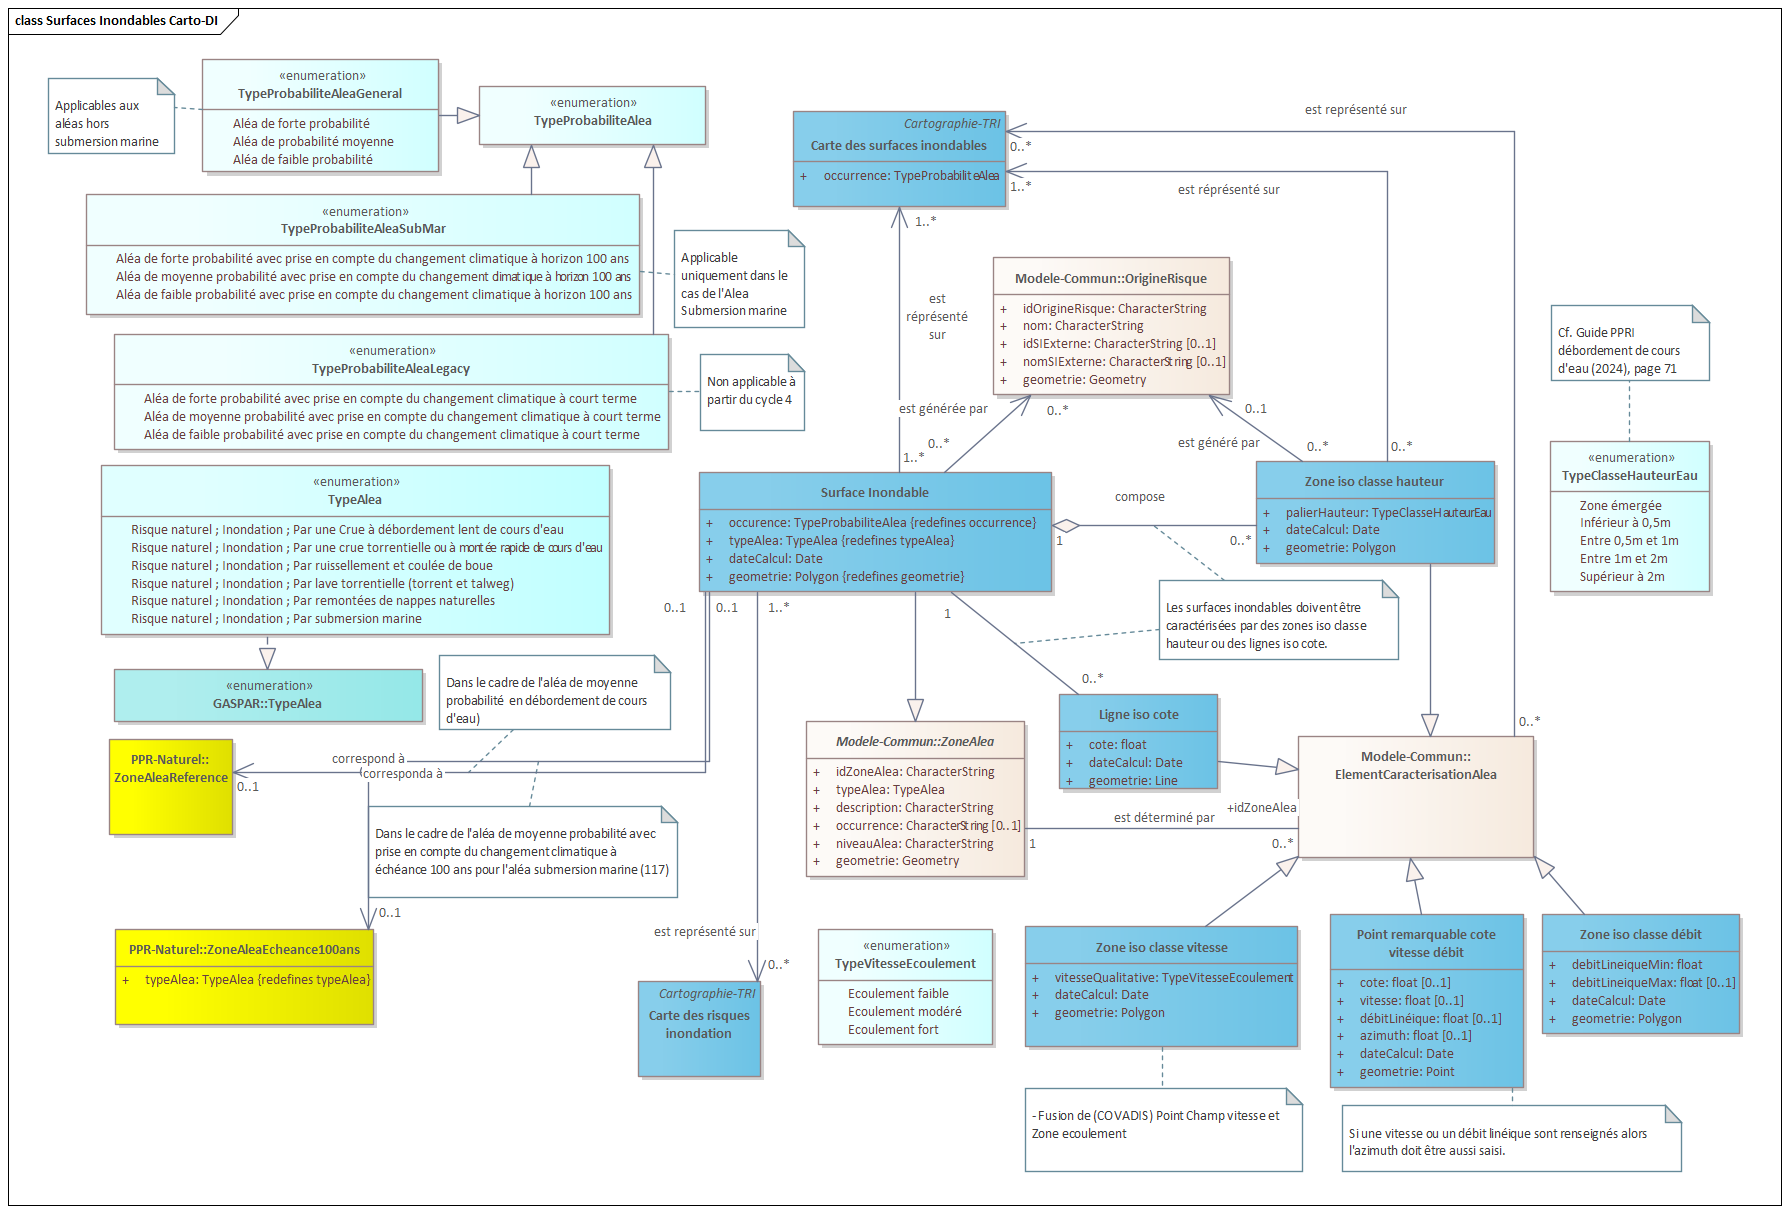
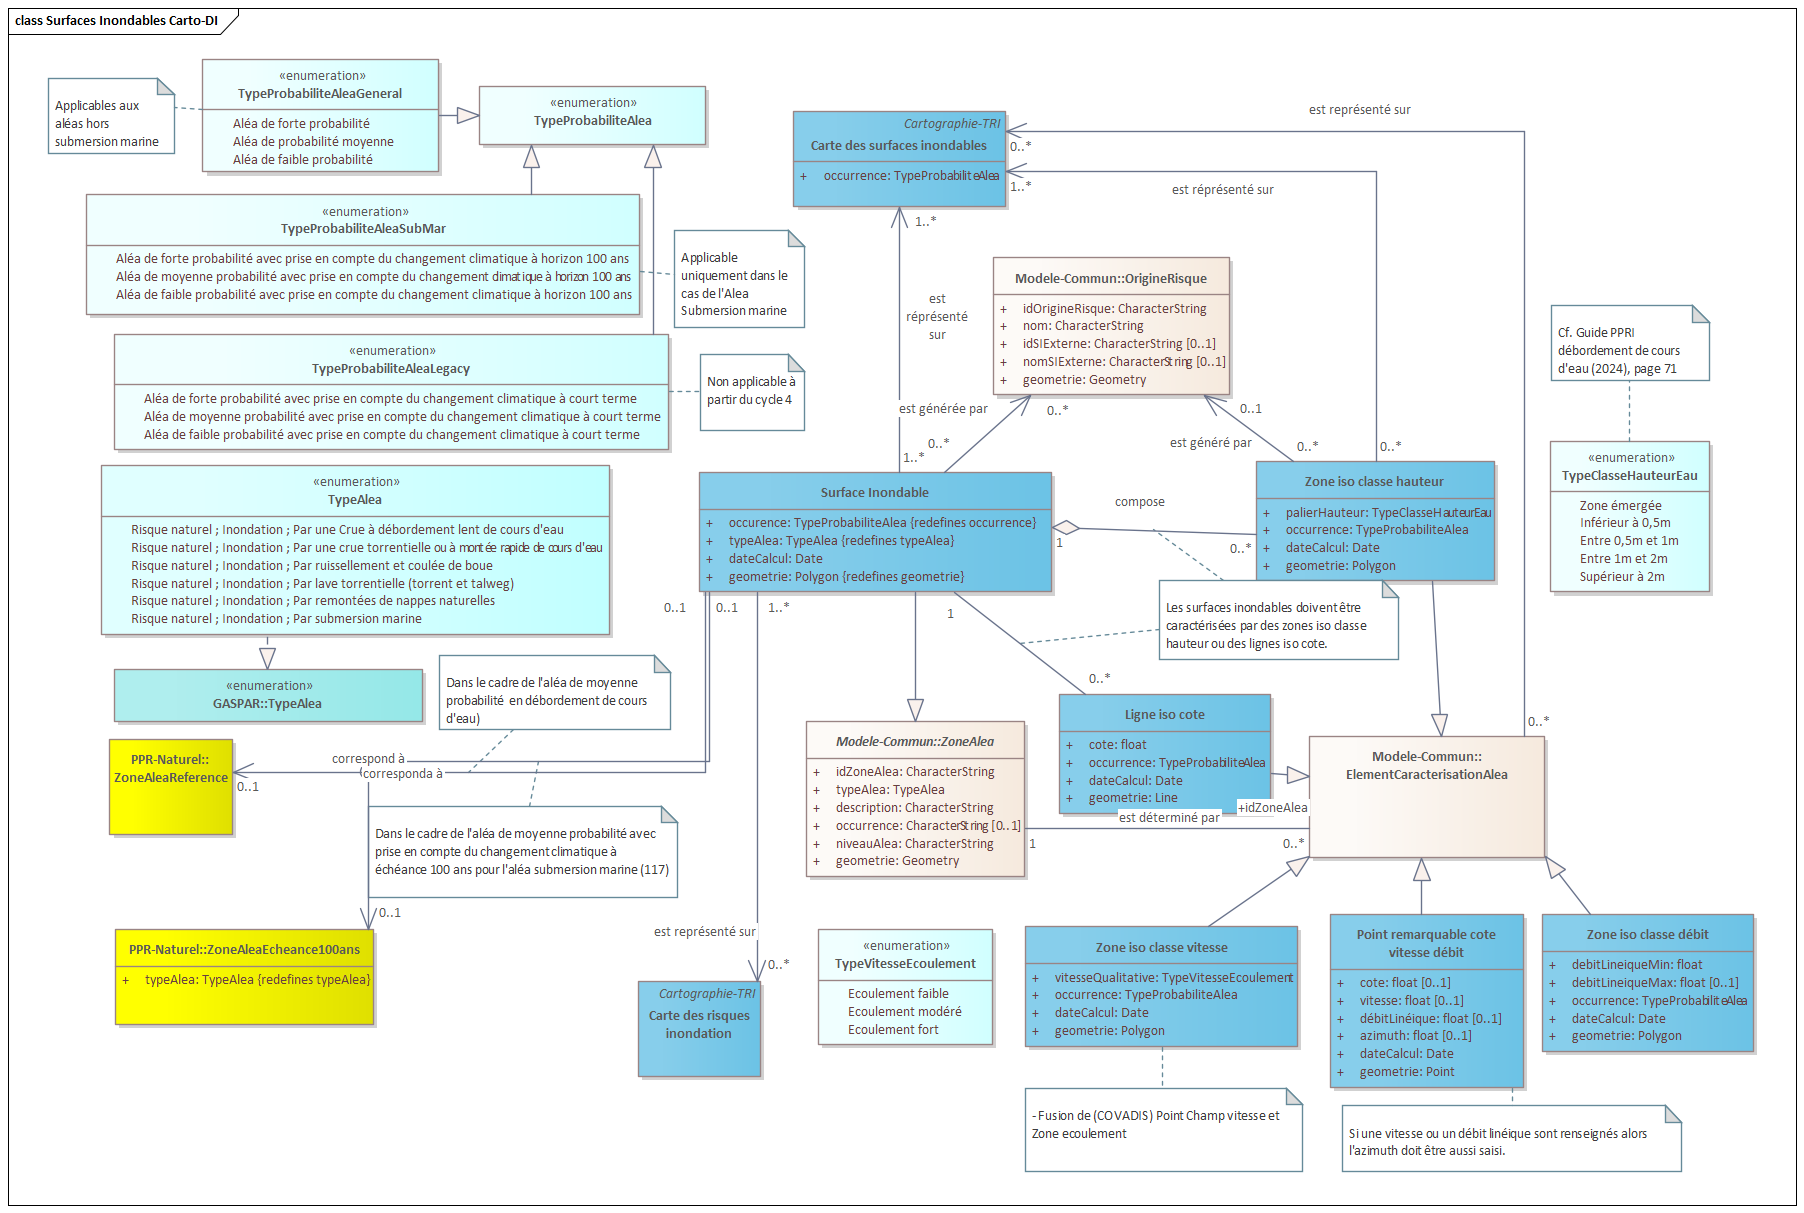
Ajout champ occurrence sur element cracterisation alea (cf. DDT38 #1)

diff --git a/standard/Document.md b/standard/Document.md
@@ -597,7 +597,7 @@ Cf. [associations de la classe TRI](#associations-de-la-classe-tri)
 | **`typeAlea`** | Type d'aléa inondation engendrant la surface; selon la codification GASPAR | 1 | `CharacterString` | Valeur à prendre parmi les valeurs de [TypeAleaCartoDI](#typealeacartodi) selon la nomenclature GASPAR | `112` |
 | **`occurrence`** | Probabilité de survenue de l'aléa inondation associée à la surface selon la caractérisation définie par [TypeProbabiliteAlea](#typeprobabilitealea) | 1 | [TypeProbabiliteAlea](#typeprobabilitealea) | Valeur obligatoire à prendre parmi les valeurs de[TypeProbabiliteAlea](#typeprobabilitealea) | `Aléa de moyenne probabilité` |
 | **`dateCalcul`** | Date de calcul de la surface | 1 | `date` | Saisie obligatoire | `26/11/2012` |
-| `description` | Description de la surface inondable. Champ hérité du modèle commun. | 0..1 | `CharacterString` | Valeur facultative | ... |
+| `description` | Description de la surface inondable. Champ hérité du modèle commun. | 0..1 | `CharacterString` | Valeur facultative | `Surface inondable calculée pour la probabilité d'occurrence [occurrence] et l'aléa [typeAlea]` |
 | `niveauAlea` | Champ hérité du modèle commun. Niveau d'aléa à renseigner lorsque la surface inondable correspond à la zone d'aléa d'un PPRI | 0..1 | [TypeNiveauAlea](https://github.com/cnigfr/Geostandards-risques-ppr/blob/master/standard/Document.md#enumeration-typeniveaualea) | Valeur à prendre parmi les valeurs de niveau d'aléa définies dans le standard PPR |  `Fort` |
 
 #### Associations de la classe Surface inondable
@@ -627,7 +627,7 @@ Cf. aussi [associations de la classe Carte des surfaces inondables](#association
 | Attribut | Définition | Occurrences | Type | Contraintes | Exemples |
 | - | - | - | - | - | - |
 | `idOrigineRisque` | Identifiant unique de l'objet origine du risque | 1..1 | `identifiant` | Deux objets de la classe OrigineRisque ne peuvent avoir la même valeur. |   |
-| `nom` | Nom de l'objet origine du risque | 1..1 | CharacterString | Saisie libre (si possible en fonction du nom de l'objet dans le référentiel d'où il est extrait) | `La Loire` |
+| `nom` | Nom de l'objet origine du risque | 1 | CharacterString | Saisie libre (si possible en fonction du nom de l'objet dans le référentiel d'où il est extrait) | `La Loire` |
 | `idRefExterne` | Identifiant de l'objet dans le référentiel externe d'où il est extrait | 0..1 | CharacterString | Le formalisme de l'identifiant est déterminé par les spécifications du référentiel externe. |  |
 | `refExterne` | Référentiel externe d'où est extrait l'objet. | 0..1 | CharacterString | Saisie Libre. | `BD Topage` |
 | `nom` | Nom de l'objet origine du risque | 1..1 | CharacterString | Saisie libre (si possible en fonction du nom de l'objet dans le référentiel d'où il est extrait). | `La Loire` |
@@ -651,6 +651,7 @@ Cf. [associations de la classe surface inondable](#associations-de-la-classe-sur
 | - | - | - | - | - | - |
 | **`identifiant`** | Identifiant de la ligne iso cote. Cf. [Règles de codification des identifiants](#règles-de-codification-des-identifiants). | 1 | `identifiant` | Clé primaire | `LIC_0001` |
 | `cote` | Altitude de la surface de l’eau | 1..1 | `réel` | Valeur vide interdite, exprimée en mètre dans le système IGN/NGF (cf. [Systèmes de référence spatiaux](#systèmes-de-référence-spatiaux)). | `250,5` |
+| **`occurrence`** | Probabilité de survenue de l'aléa inondation associée à la ligne iso cote selon la caractérisation définie par [TypeProbabiliteAlea](#typeprobabilitealea) | 1 | [TypeProbabiliteAlea](#typeprobabilitealea). Cette valeur doit être la même que celle du champ `occurrence` de la surface inondable qu'elle permet de déterminer. | Valeur obligatoire à prendre parmi les valeurs de[TypeProbabiliteAlea](#typeprobabilitealea) | `Aléa de moyenne probabilité` |
 | **`dateCalcul`** | Date de calcul de la ligne iso cote | 1 | `date` | Saisie obligatoire. | `26/11/2012` |
 
 #### Associations de la classe Ligne iso cote
@@ -672,6 +673,7 @@ Cf. [associations de la classe surface inondable](#associations-de-la-classe-sur
 |---|---|---|---|---|---|
 | **`identifiant`** | Identifiant de la zone iso classe de hauteur. Cf. [Règles de codification des identifiants](#règles-de-codification-des-identifiants). | 1 | `identifiant` | Clé primaire | `ZCH_0001` |
 | `palierHauteur` | Palier de hauteur d'eau | 1..1 | [TypeClasseHauteurEau](#typeclassehauteureau) | Valeur obligatoire à prendre parmi les valeurs de [TypeClasseHauteurEau](#typeclassehauteureau) | `Inférieur à 0,5m` |
+| **`occurrence`** | Probabilité de survenue de l'aléa inondation associée à la zone iso hauteur selon la caractérisation définie par [TypeProbabiliteAlea](#typeprobabilitealea) | 1 | [TypeProbabiliteAlea](#typeprobabilitealea). Cette valeur doit être la même que celle du champ `occurrence` de la surface inondable qu'elle permet de déterminer. | Valeur obligatoire à prendre parmi les valeurs de[TypeProbabiliteAlea](#typeprobabilitealea) | `Aléa de moyenne probabilité` |
 | **`dateCalcul`** | Date de calcul de la zone iso classe hauteur. | 1 | `date` | Saisie obligatoire. | `26/11/2012` |
 
 #### Associations de la classe Zone iso classe hauteur
@@ -693,6 +695,7 @@ Cf. [associations de la classe surface inondable](#associations-de-la-classe-sur
 | - | - | - | - | - | - |
 | **`identifiant`** | Identifiant de la zone iso classe vitesse. Cf. [Règles de codification des identifiants](#règles-de-codification-des-identifiants). | 1 | `identifiant` | Clé primaire | `ZCV_0001` |
 | **`vitesseQualitative`** | Classe de vitesse d'écoulement | 1 | [TypeVitesseEcoulement](#typevitesseecoulement) | Saisie obligatoire à prendre parmi les valeurs de [TypeVitesseEcoulement](#typevitesseecoulement) | `Ecoulement faible` |
+| **`occurrence`** | Probabilité de survenue de l'aléa inondation associée à la zone iso classe vitesse selon la caractérisation définie par [TypeProbabiliteAlea](#typeprobabilitealea) | 1 | [TypeProbabiliteAlea](#typeprobabilitealea). Cette valeur doit être la même que celle du champ `occurrence` de la surface inondable qu'elle permet de déterminer. | Valeur obligatoire à prendre parmi les valeurs de[TypeProbabiliteAlea](#typeprobabilitealea). | `Aléa de moyenne probabilité` |
 | **`dateCalcul`** | Date de calcul de la zone iso classe vitesse | 0..1 | `date` | Saisie obligatoire. | `26/11/2012` |
 
 #### Associations de la Zone iso classe vitesse
@@ -715,6 +718,7 @@ Cf. [associations de la classe surface inondable](#associations-de-la-classe-sur
 | **`identifiant`** | Identifiant de la zone iso classe débit. Cf. [Règles de codification des identifiants](#règles-de-codification-des-identifiants). | 1 | `identifiant` | Clé primaire | `ZCD_0001` |
 | **`debitLineiqueMin`** | Seuil inférieur de la plage de débit linéaire d’écoulement des eaux dans le cas d’une inondation par ruissellement. | 1..1 | `réel` | Saisie obligatoire, exprimée en m2/s, ne peut être négative. | `0.2` |
 | `debitLineiqueMax` | Seuil supérieur de la plage de débit linéaire d’écoulement des eaux dans le cas d’une inondation par ruissellement. | 0..1 | `réel` | Saisie facultative exprimée en m2/s. Si cette valeur n’est pas renseignée, la plage de débit correspond à la plage des débits maximaux (supérieur à un débit donné). Par exemple, la plage des « débits supérieurs ou égaux à 0.2 m²/s (vitesse de 1 m/s pour une hauteur de 20 cm)» se traduit par un seuil inférieur de la plage de débit (avec dans le cas de l’exemple la valeur « 0.2 ») et un seuil supérieur laissé vide. | `0.4` |
+| **`occurrence`** | Probabilité de survenue de l'aléa inondation associée à la zone iso classe débit selon la caractérisation définie par [TypeProbabiliteAlea](#typeprobabilitealea) | 1 | [TypeProbabiliteAlea](#typeprobabilitealea). Cette valeur doit être la même que celle du champ `occurrence` de la surface inondable qu'elle permet de déterminer. | Valeur obligatoire à prendre parmi les valeurs de[TypeProbabiliteAlea](#typeprobabilitealea). | `Aléa de moyenne probabilité` |
 | **`dateCalcul`** | Date de calcul de la zone iso classe débit | 0..1 | `date` | Saisie obligatoire. | `26/11/2012` |
 
 #### Associations de la Zone iso classe débit
@@ -1431,7 +1435,7 @@ La table `surface_inondable_s` implémente la classe [Surface inondable](#surfac
 | **`id_sin`** | `TEXT` | Clé primaire. Identifiant de la surface inondable. Saisie obligatoire selon les [règles de codification des identifiants](#règles-de-codification-des-identifiants). | `SIN_0001` |
 | **`id_tri`** | `TEXT` | Clé étrangère vers la table [tri_s](#table-tri_s). Saisie obligatoire. | `FRG_TRI_TOURS` |
 | **`type_alea`** | `TEXT` | Type d'aléa inondation engendrant la surface, selon la codification GASPAR. Saisie obligatoire à faire parmi les valeurs de code de la table [typealeacartodi](#table-de-valeurs-typealeacartodi). | `112` |
-| **`occurrence`** | `TEXT` | Probabilité de survenue de l'aléa inondation associée à la surface. Valeur obligatoire à prendre parmi les valeurs de code de la table[typeprobabilitealea](#table-de-valeurs-typeprobabilitealea) | `Moy` |
+| **`occurrence`** | `TEXT` | Probabilité de survenue de l'aléa inondation associée à la surface. Valeur obligatoire à prendre parmi les valeurs de code de la table [typeprobabilitealea](#table-de-valeurs-typeprobabilitealea) | `Moy` |
 | **`date_calcul`** | `DATE` | Date de calcul de la surface. Saisie obligatoire, au format ISO 8601 : "YYYY-MM-DD". | `2012-11-26` |
 | `origine_inond` | `TEXT` | Nom de l'entité (cours d'eau, mer,...) à l'origine du risque inondation et de la surface inondable. Saisie facultative | `La Seine` |
 | `geom` | `POLYGON` | Polygone de la surface inondable | |
@@ -1454,6 +1458,7 @@ La table `zone_iso_classe_hauteur_s` implémente la classe [Zone iso classe haut
 | **`id_tri`** | `TEXT` | Clé étrangère vers la table [tri_s](#table-tri_s). Saisie obligatoire. | `FRG_TRI_TOURS` |
 | **`id_sin`** | `TEXT` | Clé étrangère vers la table [surface_inondable_s](#table-surface_inondable_s). Saisie obligatoire. Surface inondable qu'elle permet de caractériser. | `SIN_0001` |
 | **`palier_hauteur`** | `TEXT` | Palier de hauteur d'eau. Valeur obligatoire à prendre parmi les valeurs de code de la table [typeclassehauteureau](#table-de-valeurs-typeclassehauteureau) | `Inf05` |
+| **`occurrence`** | `TEXT` | Probabilité de survenue de l'aléa inondation associée à la zone. Valeur obligatoire à prendre parmi les valeurs de code de la table [typeprobabilitealea](#table-de-valeurs-typeprobabilitealea), identique à celle de l'objet `surface_inondable_s` lié via `id_sin` | `Moy` |
 | **`date_calcul`** | `DATE` | Date de calcul de la zone. Saisie obligatoire, au format ISO 8601 : "YYYY-MM-DD". | `2012-11-26` |
 | `origine_inond` | `TEXT` | Nom de l'entité (cours d'eau, mer,...) à l'origine du risque inondation, engendrant la zone de hauteur d'eau. Saisie facultative | `La Seine` |
 | `geom` | `POLYGON` | Polygone de la zone | |
@@ -1474,6 +1479,7 @@ La table `zone_iso_classe_vitesse_s` implémente la classe [Zone iso classe vite
 | **`id_tri`** | `TEXT` | Clé étrangère vers la table [tri_s](#table-tri_s). Saisie obligatoire. | `FRG_TRI_TOURS` |
 | **`id_sin`** | `TEXT` | Clé étrangère vers la table [surface_inondable_s](#table-surface_inondable_s). Saisie obligatoire. Surface inondable qu'elle permet de caractériser. | `SIN_0001` |
 | **`vitesse_quali`** | `TEXT` | Saisie obligatoire à prendre parmi les valeurs de code de la table [TypeVitesseEcoulement](#table-de-valeurs-typevitesseecoulement) | `Fai` |
+| **`occurrence`** | `TEXT` | Probabilité de survenue de l'aléa inondation associée à la zone. Valeur obligatoire à prendre parmi les valeurs de code de la table [typeprobabilitealea](#table-de-valeurs-typeprobabilitealea), identique à celle de l'objet `surface_inondable_s` lié via `id_sin` | `Moy` |
 | **`date_calcul`** | `DATE` | Date de calcul de la zone. Saisie obligatoire, au format ISO 8601 : "YYYY-MM-DD". | `2012-11-26` |
 | `geom` | `POLYGON` | Polygone de la zone | |
 
@@ -1488,6 +1494,7 @@ La table `zone_iso_classe_debit_s` implémente la classe [Zone iso classe débit
 | **`id_sin`** | `TEXT` | Clé étrangère vers la table [surface_inondable_s](#table-surface_inondable_s). Saisie obligatoire. Surface inondable que la zone permet de caractériser. | `SIN_0001` |
 | **`debit_lin_min`** | `FLOAT` | Saisie obligatoire. Seuil inférieur de débit exprimé en m2/s. | `0.2` |
 | `debit_lin_max` | `FLOAT` | Saisie facultative. Seuil supérieur de débit exprimé en m2/s. | `0.4` |
+| **`occurrence`** | `TEXT` | Probabilité de survenue de l'aléa inondation associée à la zone. Valeur obligatoire à prendre parmi les valeurs de code de la table [typeprobabilitealea](#table-de-valeurs-typeprobabilitealea), identique à celle de l'objet `surface_inondable_s` lié via `id_sin` | `Moy` |
 | **`date_calcul`** | `DATE` | Date de calcul de la zone. Saisie obligatoire, au format ISO 8601 : "YYYY-MM-DD". | `2012-11-26` |
 | `geom` | `POLYGON` | Polygone de la zone | |
 
@@ -1501,6 +1508,7 @@ La table `ligne_iso_cote_l` implémente la classe [Ligne iso cote](#ligne-iso-co
 | **`id_tri`** | `TEXT` | Clé étrangère vers la table [tri_s](#table-tri_s). Saisie obligatoire. | `FRG_TRI_TOURS` |
 | **`id_sin`** | `TEXT` | Clé étrangère vers la table [surface_inondable_s](#table-surface_inondable_s). Saisie obligatoire. Surface inondable que l'iso côte permet de caractériser. | `SIN_0001` |
 | **`cote`** | `FLOAT` | Saisie obligatoire. Altitude de la surface de l’eau en mètres. | `250.5` |
+| **`occurrence`** | `TEXT` | Probabilité de survenue de l'aléa inondation associée à la ligne iso cote. Valeur obligatoire à prendre parmi les valeurs de code de la table[typeprobabilitealea](#table-de-valeurs-typeprobabilitealea), identique à celle de l'objet `surface_inondable_s` lié via `id_sin` | `Moy` |
 | **`date_calcul`** | `DATE` | Date de calcul de la zone. Saisie obligatoire, au format ISO 8601 : "YYYY-MM-DD". | `2012-11-26` |
 | `geom` | `MULTILINESTRING` | Matérialise le tracé de la ligne iso-cote. | |
 
@@ -1510,7 +1518,7 @@ La table `point_remarquable_cvd_p` implémente la classe [Point remarquable cote
 
 | Nom colonne | Type SQL | Domaine de valeurs, contraintes | Exemple |
 | - | - | - | - |
-| **`id_pre`** |  `TEXT` | Clé primaire. Identifiant du point, à remplir selon les [règles de codification des identifiants](#règles-de-codification-des-identifiants). | `PRE_0001` |
+| **`id_pre`** | `TEXT` | Clé primaire. Identifiant du point, à remplir selon les [règles de codification des identifiants](#règles-de-codification-des-identifiants). | `PRE_0001` |
 | **`id_tri`** | `TEXT` | Clé étrangère vers la table [tri_s](#table-tri_s). Saisie obligatoire. | `FRG_TRI_TOURS` |
 | **`id_sin`** | `TEXT` | Clé étrangère vers la table [surface_inondable_s](#table-surface_inondable_s). Saisie obligatoire. Surface inondable que le point remarquable permet de caractériser. | `SIN_0001` |
 | `cote` | `FLOAT` | Saisie facultative. Altitude de la surface de l’eau lors de l'inondation en ce point, exprimée en mètre dans le système IGN/NGF (cf. [Systèmes de référence spatiaux](#systèmes-de-référence-spatiaux)). | `250.5` |
@@ -2222,14 +2230,14 @@ La contrainte de géométrie en polygones simples de la table `zone_iso_classe_h
 
 | Nom colonne | Table(s) COVADIS | Colonne(s) COVADIS | Commentaire |
 | - | - | - | - |
-| **`id_zch`** |  |  | Nouveaux identifiants à générer. |
-| **`id_tri`** | `N_[prefixTri]_ISO_HT_S_ddd` | `ID_TRI` |  |
+| **`id_zch`** | - | - | Nouveaux identifiants à générer. |
+| **`id_tri`** | `N_[prefixTri]_ISO_HT_S_ddd` | `ID_TRI` | - |
 | **`id_sin`** | `N_[prefixTri]_ISO_HT_S_ddd` | `ID_SIN` | la valeur est celle du nouveau `id_sin` [déduit du `ID_SIN` de la table `N_[prefixTri]_INONDABLE_S_ddd`](#correspondances-table-surface_inondable_s). |
 | **`palier_hauteur`** | `N_[prefixTri]_ISO_HT_S_ddd` | `HT_MIN` et `HT_MAX` | trouver la [valeur de palier](#typeclassehauteureau) correspondant le mieux à la plage délimitée par les valeurs de `HT_MIN` et `HT_MAX`|
-| `origine_inond` | `N_[prefixTri]_ISO_HT_S_ddd` | `COURS_DEAU` |  |
+| `origine_inond` | `N_[prefixTri]_ISO_HT_S_ddd` | `COURS_DEAU` | - |
+| **`occurrence`** | `N_[prefixTri]_ISO_HT_S_ddd` | `SCENARIO` | Cf. [Correspondances de valeurs probabilité aléa - scénarios](#correspondances-probabilite-aléa-et-scénarios) |
 | **`date_calcul`** | `N_[prefixTri]_ISO_HT_S_ddd` | `DATEENTREE` | Lorsque `DATSORTIE` est nul. La date de génération de la nouvelle table (passage en géométries simples) peut aussi être utilisée si `DATENTREE` est nul. |
 | `geom` | `N_[prefixTri]_ISO_HT_S_ddd` | Géométrie déduite de l'objet | - |
-
 
 ## Correspondances table `zone_iso_classe_vitesse_s`
 
@@ -2239,10 +2247,11 @@ La contrainte de géométrie en polygones simples de la table `zone_iso_classe_v
 
 | Nom colonne | Table(s) COVADIS | Colonne(s) COVADIS | Commentaire |
 | - | - | - | - |
-| **`id_zcv`** |  |  | Nouveaux identifiants à générer. |
-| **`id_tri`** | `N_[prefixTri]_ECOUL_S_ddd` | `ID_TRI` |  |
+| **`id_zcv`** | - | - | Nouveaux identifiants à générer. |
+| **`id_tri`** | `N_[prefixTri]_ECOUL_S_ddd` | `ID_TRI` | - |
 | **`id_sin`** | `N_[prefixTri]_ECOUL_S_ddd` | `ID_SIN` | La valeur est celle du nouveau `id_sin` [déduit du `ID_SIN` de la table `N_[prefixTri]_INONDABLE_S_ddd`](#correspondances-table-surface_inondable_s). |
 | **`vitesse_quali`** | `N_[prefixTri]_ECOUL_S_ddd` | VITESSE | Les valeurs de [typevitesseecoulement](#table-de-valeurs-typevitesseecoulement) sont les mêmes que celles du standard COVADIS. |
+| **`occurrence`** | `N_[prefixTri]_INONDABLE_S_ddd` | `SCENARIO` | Cf. [Correspondances de valeurs probabilité aléa - scénarios](#correspondances-probabilite-aléa-et-scénarios). Valeur du champ `occurrence` de l'objet `id_sin` correspondant. |
 | **`date_calcul`** | `N_[prefixTri]_ECOUL_S_ddd` | `DATEENTREE` |  Lorsque `DATSORTIE` est nul. La date de génération de la nouvelle table (passage en géométries simples) peut aussi être utilisée si `DATENTREE` est nul.  |
 | `geom` | `N_[prefixTri]_ECOUL_S_ddd` | Géométrie déduite de l'objet |  |
 
@@ -2259,6 +2268,7 @@ La contrainte de géométrie en polygones simples de la table `zone_iso_classe_d
 | **`id_sin`** | `N_[prefixTri]_ISO_DEB_S_ddd` | `ID_SIN` | La valeur est celle du nouveau `id_sin` [déduit du `ID_SIN` de la table `N_[prefixTri]_INONDABLE_S_ddd`](#correspondances-table-surface_inondable_s). |
 | **`debit_lin_min`** | `N_[prefixTri]_ISO_DEB_S_ddd` | `DEBLIN_MIN` |  | 
 | `debit_lin_max` | `N_[prefixTri]_ISO_DEB_S_ddd` | `DEBLIN_MAX` |  | 
+| **`occurrence`** | `N_[prefixTri]_INONDABLE_S_ddd` | `SCENARIO` | Cf. [Correspondances de valeurs probabilité aléa - scénarios](#correspondances-probabilite-aléa-et-scénarios). Valeur du champ `occurrence` de l'objet `id_sin` correspondant. |
 | **`date_calcul`** | `N_[prefixTri]_ISO_DEB_S_ddd` | `DATEENTREE` | Lorsque `DATSORTIE` est nul. La date de génération de la nouvelle table (passage en géométries simples) peut aussi être utilisée si `DATENTREE` est nul. |
 | `geom` | `N_[prefixTri]_ISO_DEB_S_ddd` | Géométrie déduite de l'objet |  |
 
@@ -2272,6 +2282,7 @@ Les objets de la table `ligne_iso_cote_l` sont générés à partir des objets d
 | **`id_tri`** | `N_[prefixTri]_ISO_COTE_L_ddd` | `ID_TRI` |  |
 | **`id_sin`** | `N_[prefixTri]_ISO_COTE_L_ddd` | `ID_SIN` | La valeur est celle du nouveau `id_sin` [déduit du `ID_SIN` de la table `N_[prefixTri]_INONDABLE_S_ddd`](#correspondances-table-surface_inondable_s). |
 | **`cote`** | `N_[prefixTri]_ISO_COTE_L_ddd` | `COTE` |  |
+| **`occurrence`** | `N_[prefixTri]_ISO_COTE_L_ddd` | `SCENARIO` | Cf. [Correspondances de valeurs probabilité aléa - scénarios](#correspondances-probabilite-aléa-et-scénarios). |
 | **`date_calcul`** | `N_[prefixTri]_ISO_COTE_L_ddd` | `DATEENTREE` | Lorsque `DATSORTIE` est nul. La date de génération de la nouvelle table (passage en géométries simples) peut aussi être utilisée si `DATENTREE` est nul. |
 | `geom` | `N_[prefixTri]_ISO_COTE_L_ddd` | Géométrie de l'objet. | - |
 
